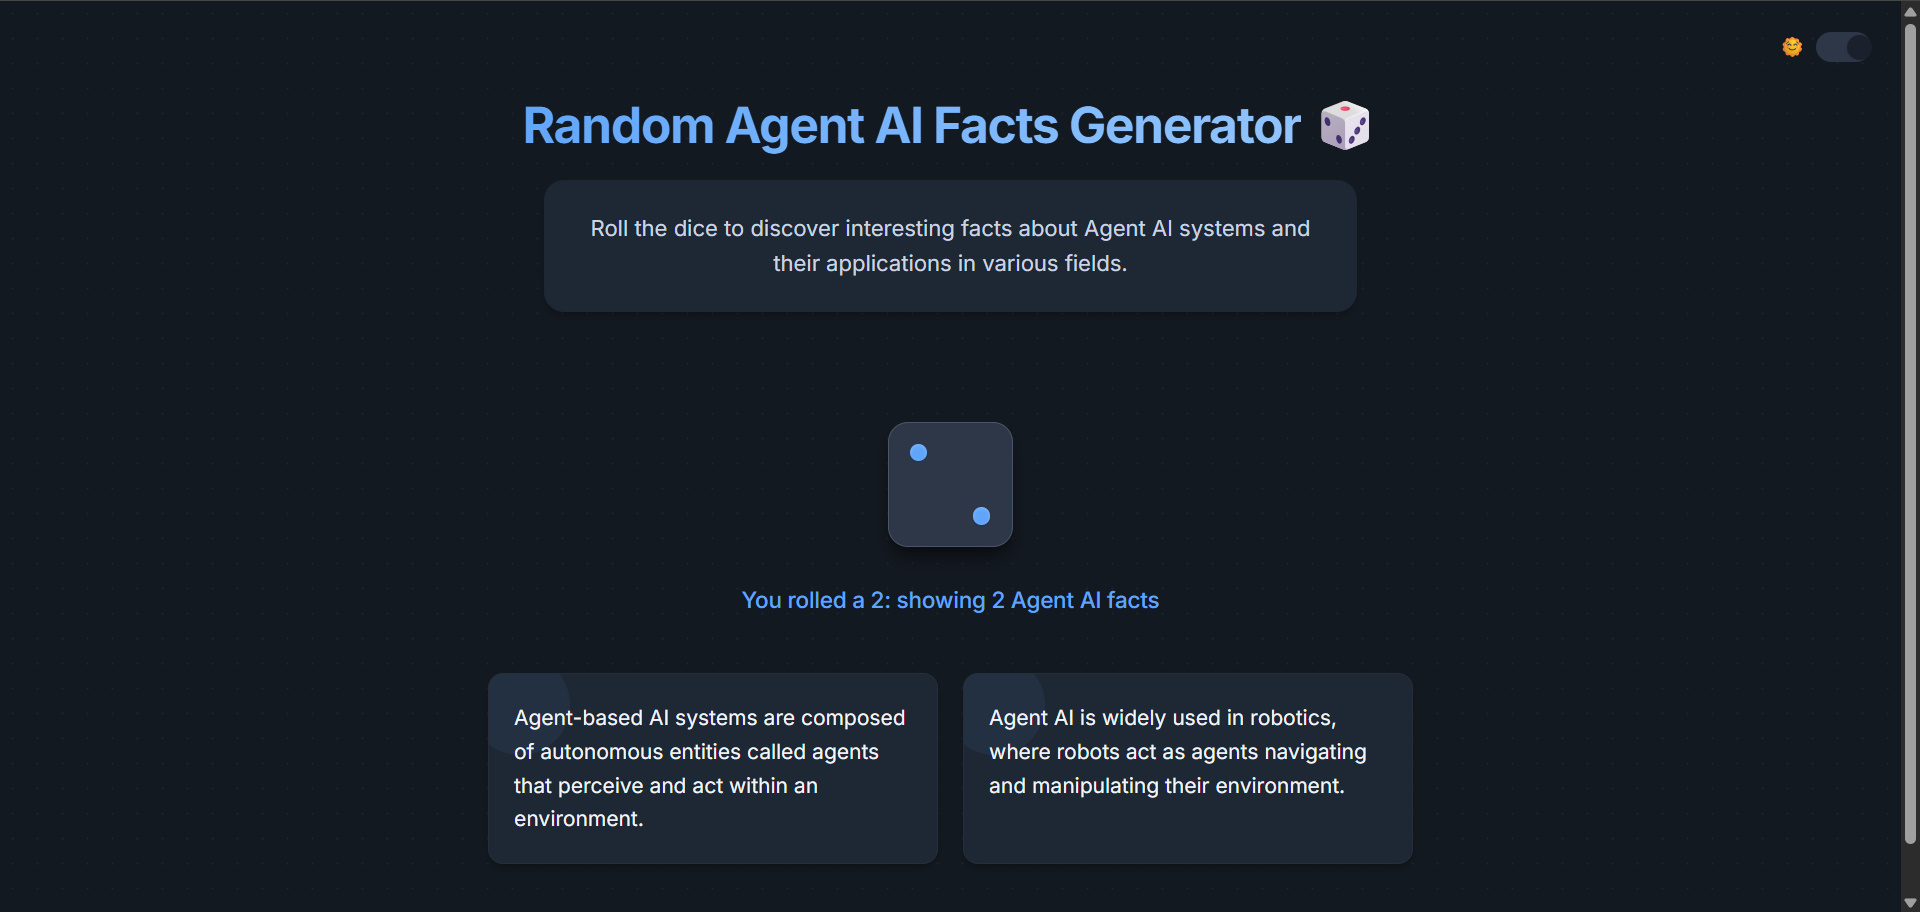
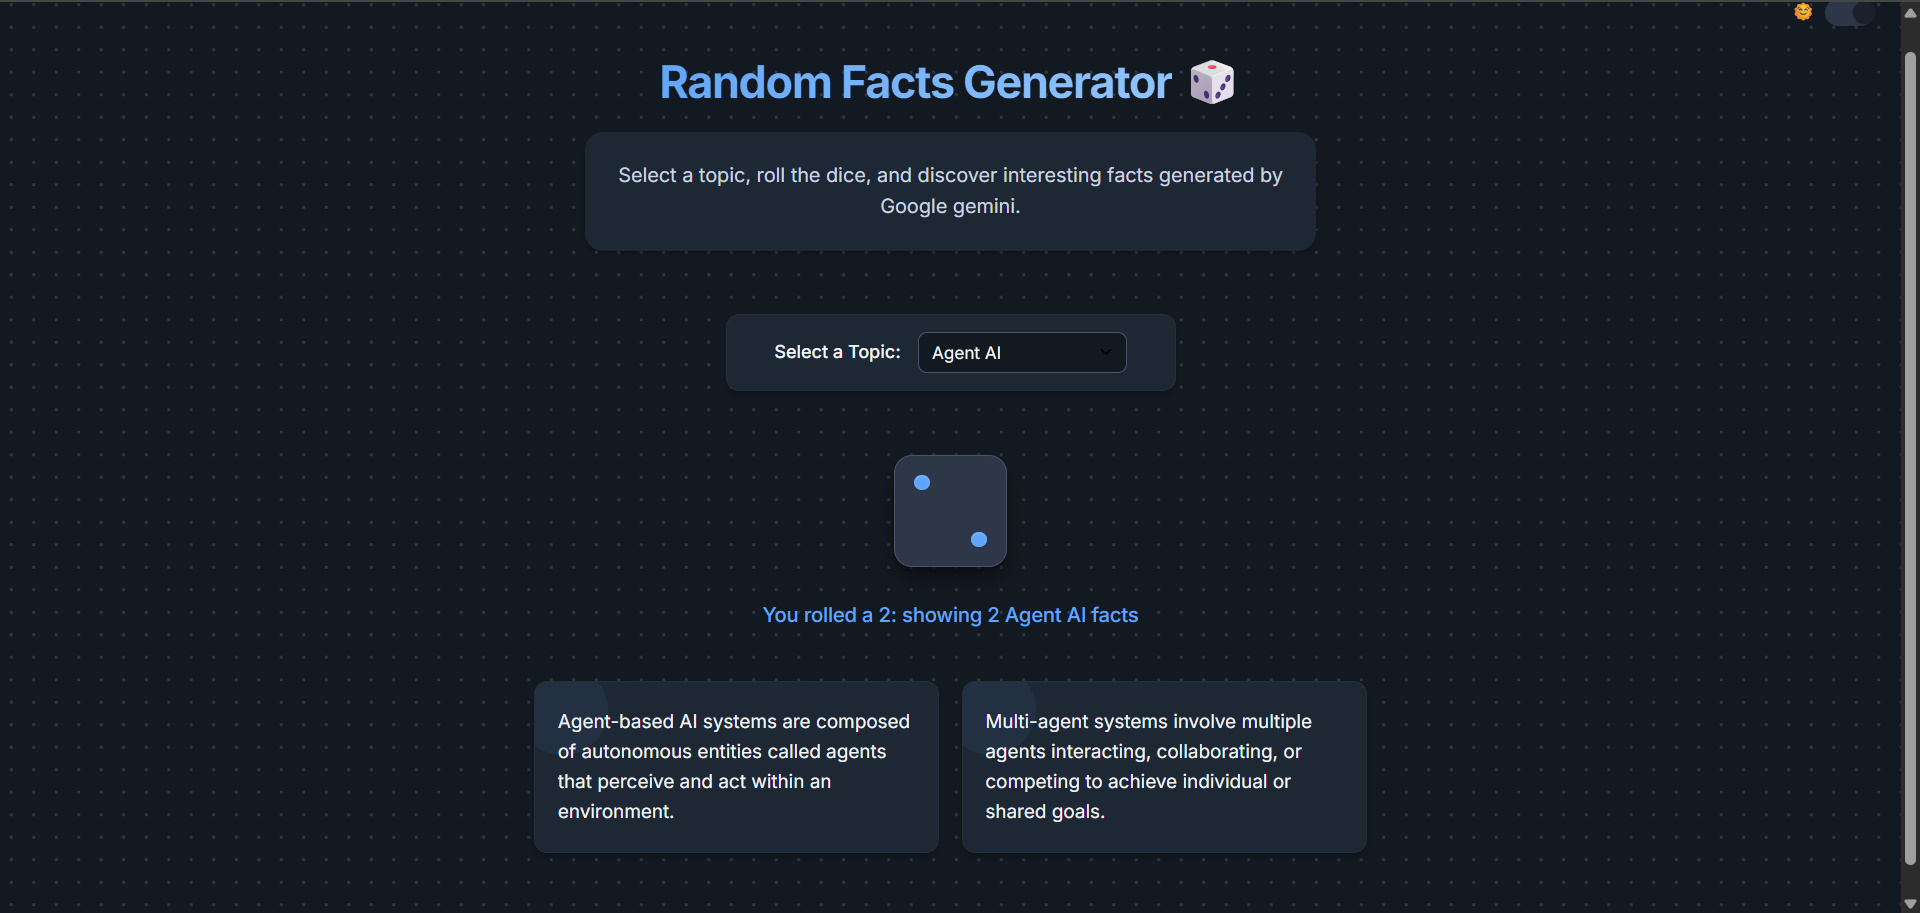
Update the styles

diff --git a/styles.css b/styles.css
@@ -8,7 +8,7 @@
  :root {
      /* Light theme */
      --bg: #f8fafc;
-     --bg-pattern: #edf2f7;
+     --bg-pattern: #d4dbe5; /* Made darker for better visibility */
      --card-bg: #ffffff;
      --text: #1a202c;
      --text-secondary: #4a5568;
@@ -33,7 +33,7 @@
  [data-theme="dark"] {
      /* Dark theme */
      --bg: #131920;
-     --bg-pattern: #1a202c;
+     --bg-pattern: #2c3644; /* Made lighter for better visibility */
      --card-bg: #1e2734;
      --text: #f1f5f9;
      --text-secondary: #cbd5e1;
@@ -60,7 +60,7 @@
      margin: 0;
      font-family: 'Inter', sans-serif;
      background-color: var(--bg);
-     background-image: radial-gradient(var(--bg-pattern) 1px, transparent 1px);
+     background-image: radial-gradient(var(--bg-pattern) 1.5px, transparent 1.5px); /* Increased dot size from 1px to 1.5px for better visibility */
      background-size: 20px 20px;
      color: var(--text);
      min-height: 100vh;

diff --git a/index.html b/index.html
@@ -20,7 +20,7 @@
   </div>
   <div class="container">
     <header>
-      <h1><span class="gradient-text">Random Agent AI Facts Generator</span> <span class="emoji">🎲</span></h1>
+      <h1><span class="gradient-text">Random Facts Generator</span> <span class="emoji">🎲</span></h1>
       <div class="intro">
         Select a topic, roll the dice, and discover interesting facts generated by Google gemini.
       </div>
